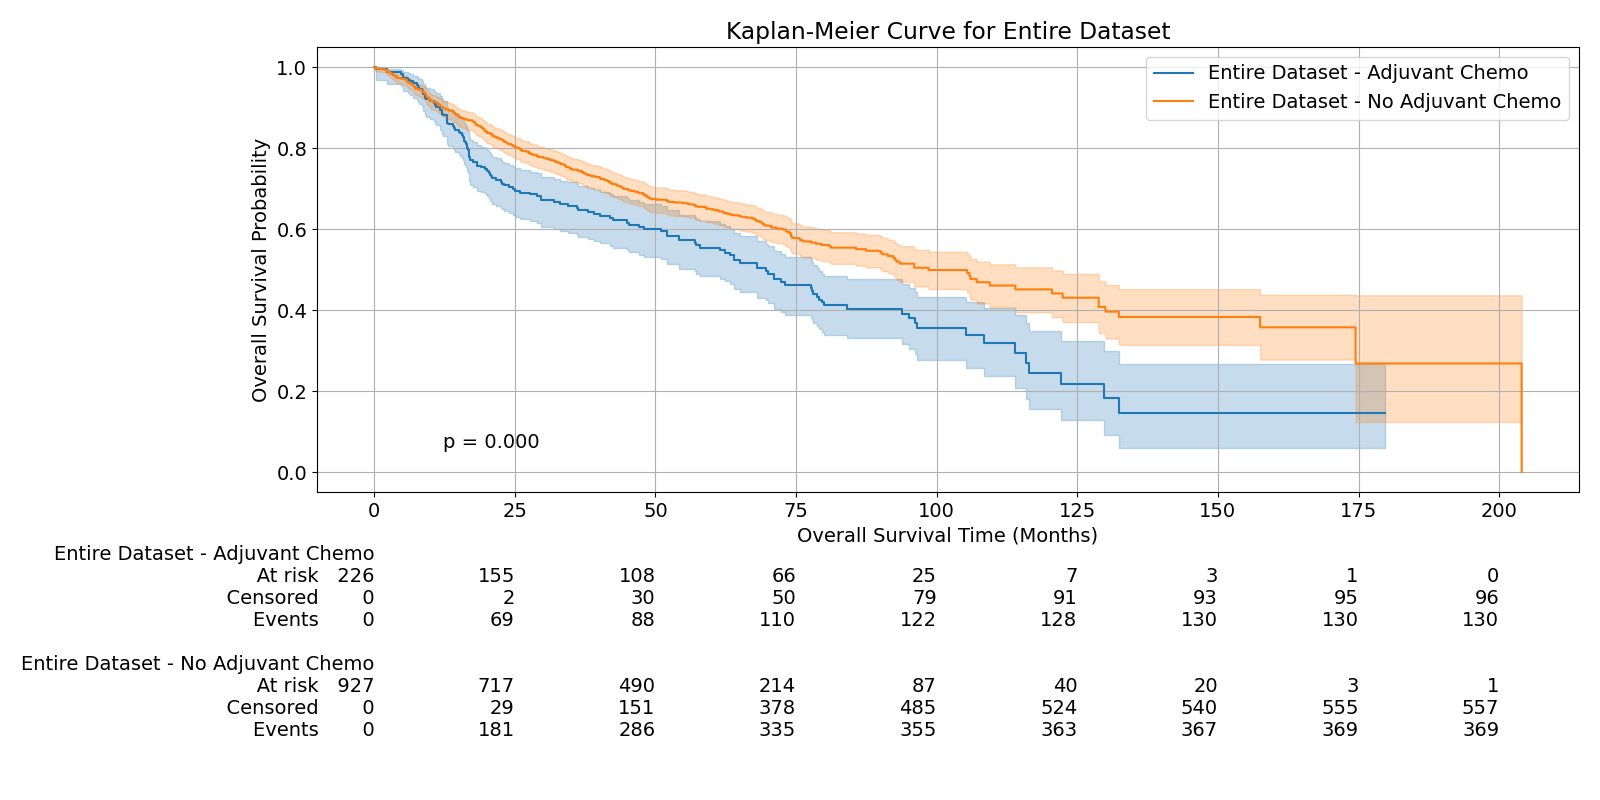
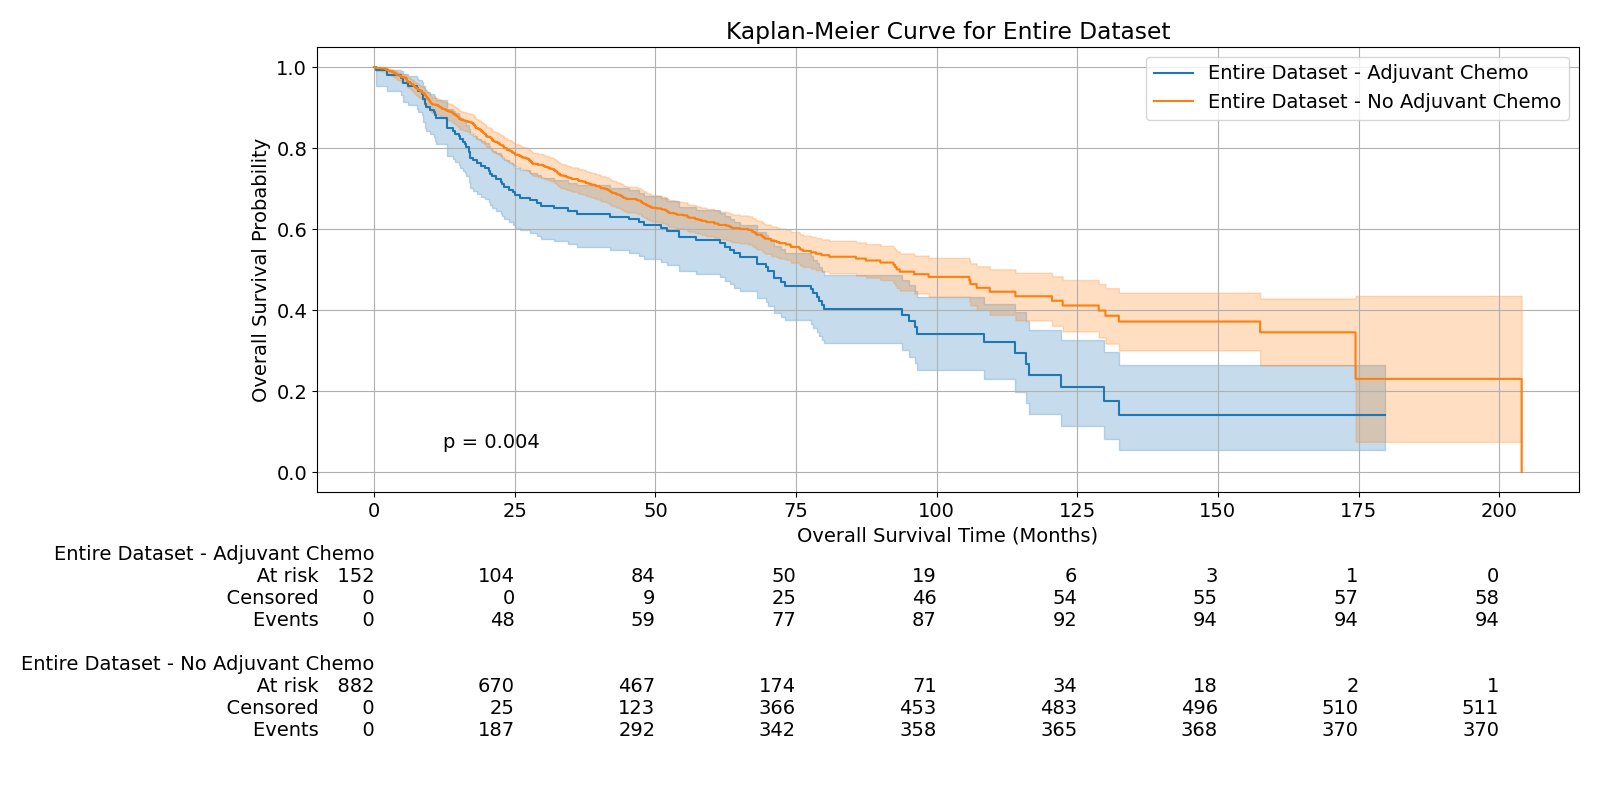
add km

diff --git a/eda/km/km-by-adjchemo.py b/eda/km/km-by-adjchemo.py
@@ -4,20 +4,30 @@ from lifelines.plotting import add_at_risk_counts
 from lifelines.statistics import logrank_test
 import matplotlib.pyplot as plt
 
-data = pd.read_csv('affymetrix.merged.csv')
-data = pd.get_dummies(data, columns=["Stage", "Histology", "Race"])
-data = data.drop(columns=['PFS_MONTHS','RFS_MONTHS'])
+# Update these to your files if needed
+TRAIN_CSV = "affyfRMATrain.csv"
+VALID_CSV = "affyfRMAValidation.csv"
+
+# Combine train adn validation datasets
+train_df = pd.read_csv(TRAIN_CSV)
+valid_df = pd.read_csv(VALID_CSV)
+data = pd.concat([train_df, valid_df], ignore_index=True)
+
+#data = pd.get_dummies(data, columns=["Stage", "Histology", "Race"])
+#data = data.drop(columns=['PFS_MONTHS','RFS_MONTHS'])
 
 data['Adjuvant Chemo'] = data['Adjuvant Chemo'].replace({'OBS': 0, 'ACT': 1})
 
 # Filter to stage IA and IB based on the dummy columns created by get_dummies
 stage_IA = data[data['Stage_IA'] == 1]
 stage_IB = data[data['Stage_IB'] == 1]
+stage_II = data[data['Stage_II'] == 1]
+stage_III = data[data['Stage_III'] == 1]
 
 plt.rcParams.update({'font.size': 14})
 fig, axes = plt.subplots(1, 2, figsize=(16, 8))
 
-for ax, (stage_label, stage_df) in zip(axes, [("Stage IA", stage_IA), ("Stage IB", stage_IB)]):
+for ax, (stage_label, stage_df) in zip(axes, [("Stage IA", stage_IA), ("Stage IB", stage_IB) ]):
     # Split by Adjuvant Chemo status
     chemo_yes = stage_df[stage_df["Adjuvant Chemo"] == 1]
     chemo_no = stage_df[stage_df["Adjuvant Chemo"] == 0]
@@ -80,6 +90,101 @@ print(f"Combined logrank test p-value: {results_combined.p_value}")
 
 plt.tight_layout()
 plt.savefig('eda/km/Affy-Kaplan-Meier-by-Adjuvant-2.png')
+plt.show()
+
+# New: Separate Kaplan-Meier plots for Stage II and Stage III (and combined)
+plt.rcParams.update({'font.size': 14})
+fig2, axes2 = plt.subplots(1, 2, figsize=(16, 8))
+
+for ax, (stage_label, stage_df) in zip(axes2, [("Stage II", stage_II), ("Stage III", stage_III)]):
+    if stage_df.empty:
+        print(f"{stage_label} has no data; skipping plot.")
+        ax.set_visible(False)
+        continue
+
+    chemo_yes = stage_df[stage_df["Adjuvant Chemo"] == 1]
+    chemo_no = stage_df[stage_df["Adjuvant Chemo"] == 0]
+
+    # If one of the arms is empty, fit/plot only the non-empty arm and skip logrank
+    kmf_yes = KaplanMeierFitter(label=f"{stage_label} - Adjuvant Chemo")
+    kmf_no = KaplanMeierFitter(label=f"{stage_label} - No Adjuvant Chemo")
+
+    plotted_any = False
+    if not chemo_yes.empty:
+        kmf_yes.fit(chemo_yes['OS_MONTHS'], event_observed=chemo_yes['OS_STATUS'])
+        kmf_yes.plot_survival_function(ax=ax, ci_show=True)
+        plotted_any = True
+    if not chemo_no.empty:
+        kmf_no.fit(chemo_no['OS_MONTHS'], event_observed=chemo_no['OS_STATUS'])
+        kmf_no.plot_survival_function(ax=ax, ci_show=True)
+        plotted_any = True
+
+    if not plotted_any:
+        print(f"{stage_label}: no records in either chemo arm; skipping.")
+        ax.set_visible(False)
+        continue
+
+    ax.set_title(f"Kaplan-Meier Curve for {stage_label}")
+    ax.set_xlabel('Overall Survival Time (Months)')
+    ax.set_ylabel('Overall Survival Probability')
+    ax.grid(True)
+    add_at_risk_counts(kmf_yes if not chemo_yes.empty else kmf_no,
+                       kmf_no if not chemo_no.empty else kmf_yes, ax=ax)
+
+    # Compute logrank test if both arms have observations
+    if len(chemo_yes) > 0 and len(chemo_no) > 0:
+        try:
+            results_stage = logrank_test(chemo_yes['OS_MONTHS'], chemo_no['OS_MONTHS'],
+                                         event_observed_A=chemo_yes['OS_STATUS'],
+                                         event_observed_B=chemo_no['OS_STATUS'])
+            ax.text(0.1, 0.1, f"p = {results_stage.p_value:.3f}", transform=ax.transAxes)
+            print(f"{stage_label} logrank test p-value: {results_stage.p_value}")
+        except Exception as e:
+            print(f"{stage_label} logrank test failed: {e}")
+    else:
+        print(f"{stage_label}: one chemo arm empty — logrank test skipped.")
+
+plt.tight_layout()
+plt.savefig('eda/km/Affy-Kaplan-Meier-by-Adjuvant-StageII-III.png')
+plt.show()
+
+# Combined Stage II + Stage III
+combined_23 = pd.concat([stage_II, stage_III])
+chemo_yes_23 = combined_23[combined_23["Adjuvant Chemo"] == 1]
+chemo_no_23 = combined_23[combined_23["Adjuvant Chemo"] == 0]
+
+fig23, ax23 = plt.subplots(figsize=(16,8))
+kmf_yes_23 = KaplanMeierFitter(label="Stage II+III - Adjuvant Chemo")
+kmf_no_23 = KaplanMeierFitter(label="Stage II+III - No Adjuvant Chemo")
+
+if len(chemo_yes_23) > 0:
+    kmf_yes_23.fit(chemo_yes_23['OS_MONTHS'], event_observed=chemo_yes_23['OS_STATUS'])
+    kmf_yes_23.plot_survival_function(ax=ax23, ci_show=True)
+if len(chemo_no_23) > 0:
+    kmf_no_23.fit(chemo_no_23['OS_MONTHS'], event_observed=chemo_no_23['OS_STATUS'])
+    kmf_no_23.plot_survival_function(ax=ax23, ci_show=True)
+
+ax23.set_title("Kaplan-Meier Curve for Stage II & III Combined")
+ax23.set_xlabel('Overall Survival Time (Months)')
+ax23.set_ylabel('Overall Survival Probability')
+ax23.grid(True)
+add_at_risk_counts(kmf_yes_23 if len(chemo_yes_23)>0 else kmf_no_23,
+                   kmf_no_23 if len(chemo_no_23)>0 else kmf_yes_23, ax=ax23)
+
+if len(chemo_yes_23) > 0 and len(chemo_no_23) > 0:
+    try:
+        results_23 = logrank_test(chemo_yes_23['OS_MONTHS'], chemo_no_23['OS_MONTHS'],
+                                  event_observed_A=chemo_yes_23['OS_STATUS'],
+                                  event_observed_B=chemo_no_23['OS_STATUS'])
+        ax23.text(0.1, 0.1, f"p = {results_23.p_value:.3f}", transform=ax23.transAxes)
+        print(f"Stage II+III combined logrank test p-value: {results_23.p_value}")
+    except Exception as e:
+        print(f"Stage II+III logrank test failed: {e}")
+else:
+    print("Stage II+III: one chemo arm empty — logrank test skipped.")
+
+plt.tight_layout()
+plt.savefig('eda/km/Affy-Kaplan-Meier-StageII-III-Combined.png')
 plt.show()
 
 # New analysis: Kaplan-Meier survival for the entire dataset
